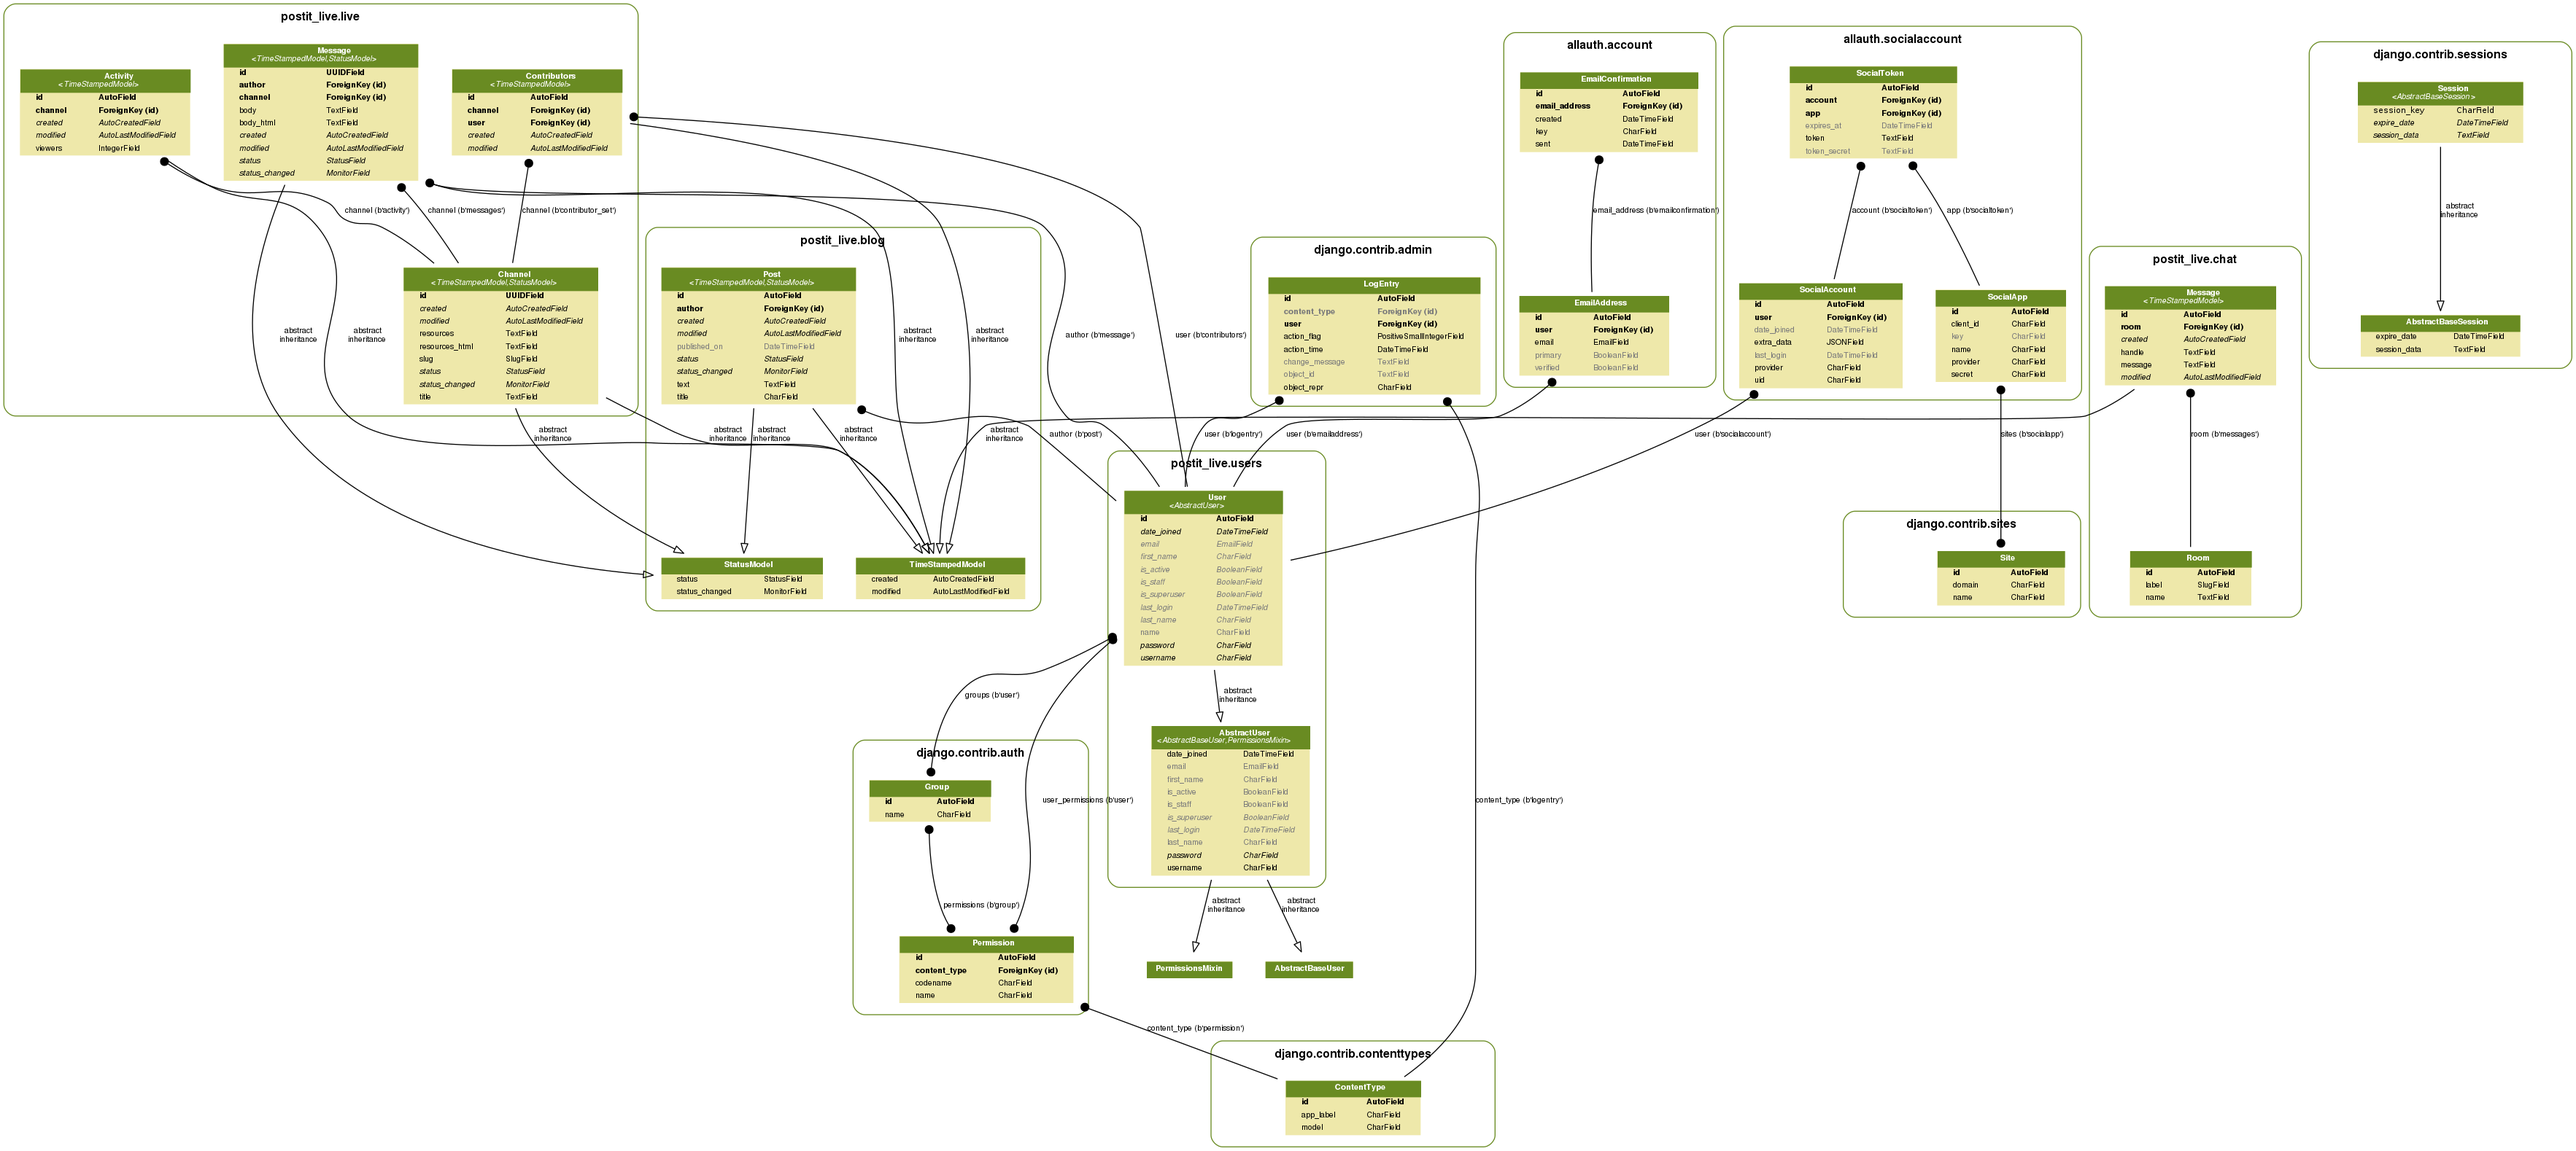
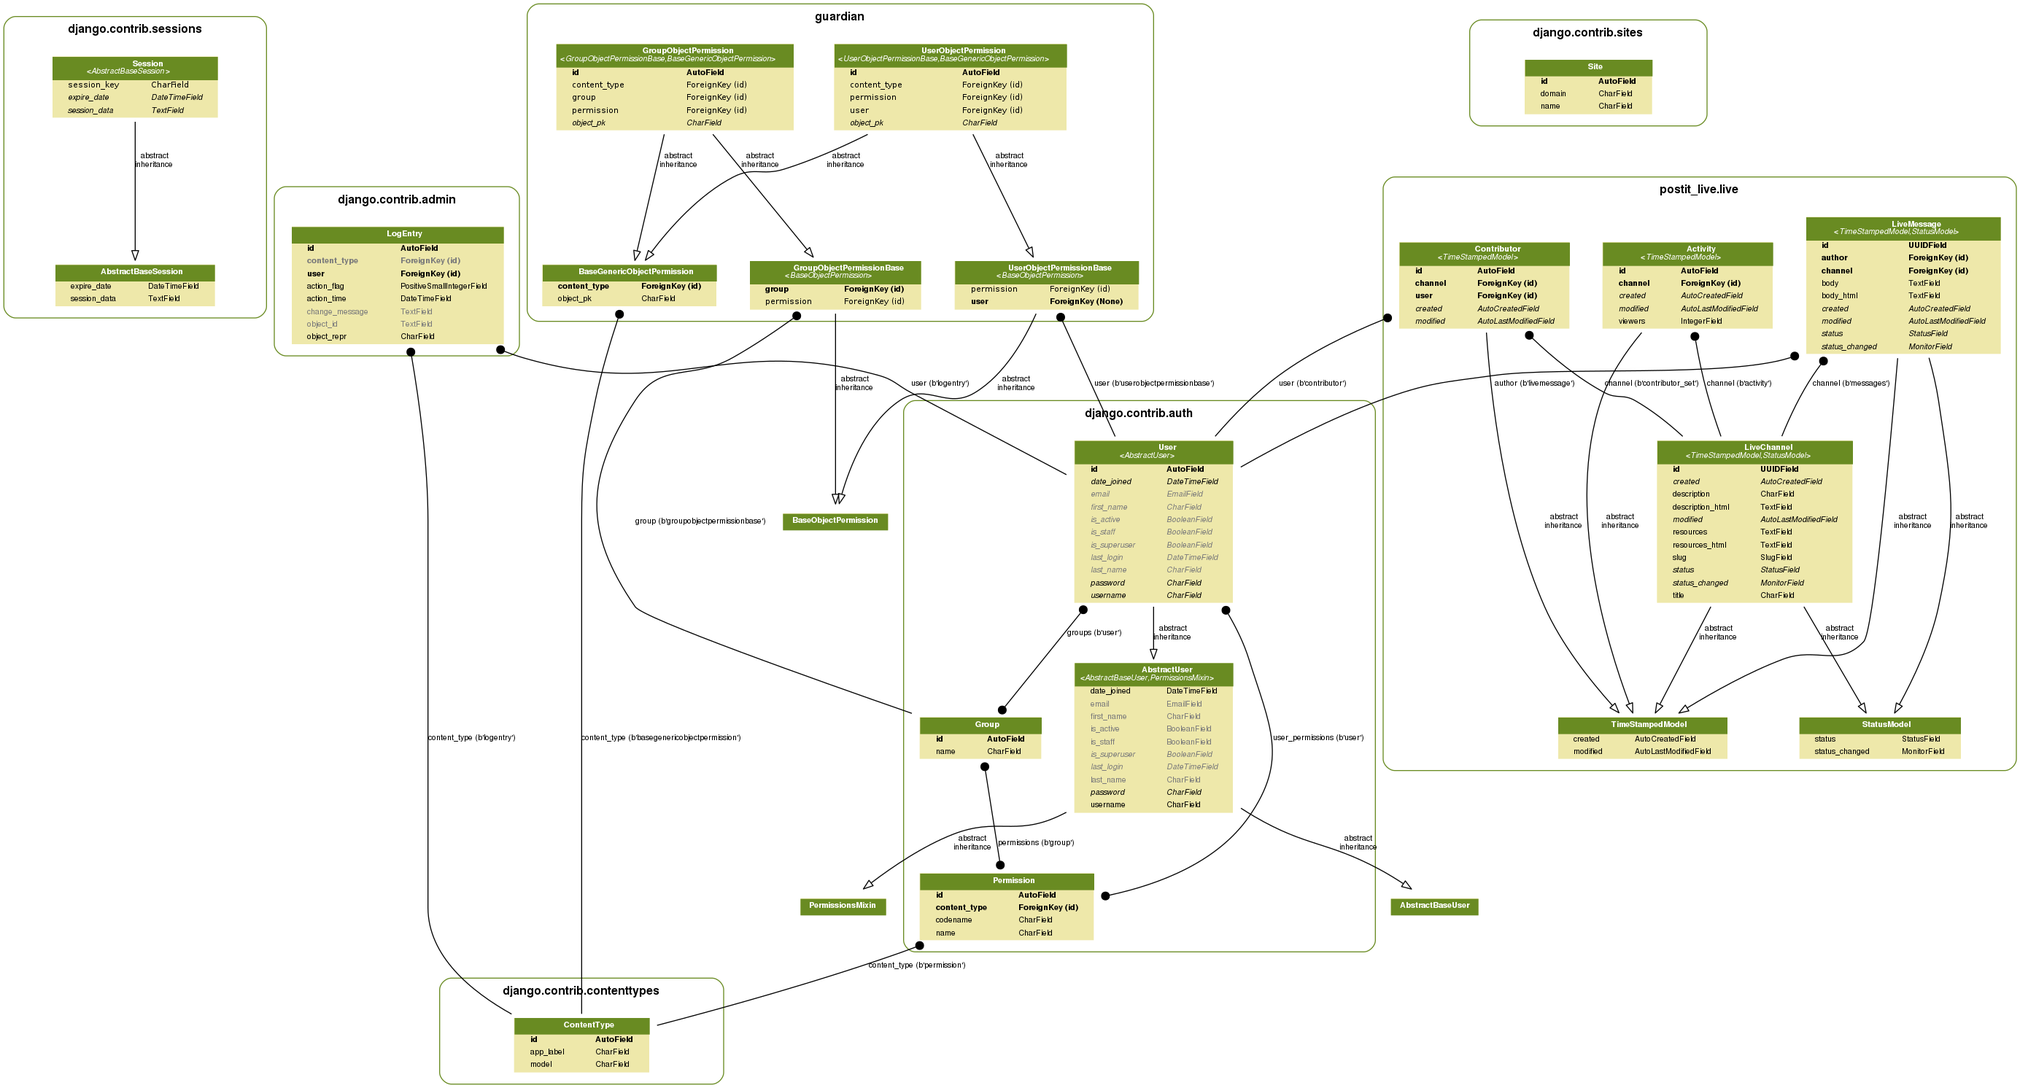
setup permissions on action handlers

diff --git a/postit_live/utils.py b/postit_live/utils.py
@@ -1,8 +1,10 @@
 # coding=utf-8
 import logging
+import pickle
 from io import BytesIO
 
 from channels import Channel
+from channels import Group
 from channels.generic.websockets import JsonWebsocketConsumer, WebsocketConsumer
 from rest_framework.parsers import JSONParser
 from rest_framework.renderers import JSONRenderer
@@ -12,20 +14,6 @@ FROM_JSON = JSONParser()
 logger = logging.getLogger(__name__)
 
 
-class ConsumerMixin(object):
-    consumer = NotImplemented
-
-    def consumer_send(self, content, close=False):
-        message = self.kwargs.copy()
-        if close:
-            message["close"] = True
-
-        message['connection_groups'] = self.connection_groups(**self.kwargs)
-        message['data'] = content
-
-        Channel(self.consumer).send(message)
-
-
 def json_dumps(data):
     return TO_JSON.render(data).decode('utf-8')
 
@@ -33,6 +21,36 @@ def json_dumps(data):
 def json_loads(json):
     stream = BytesIO(json.encode())
     return FROM_JSON.parse(stream)
+
+
+class ConsumerMixin(object):
+    consumer = NotImplemented
+
+    def consumer_send(self, content, close=False):
+        message = self.kwargs.copy()
+
+        if close:
+            message["close"] = True
+
+        message['groups'] = self.connection_groups(**self.kwargs)
+        message['content'] = content
+        message['reply_channel'] = self.message.reply_channel.name
+
+        if self.message.user:
+            message['user'] = pickle.dumps(self.message.user)
+
+        Channel(self.consumer).send(message)
+
+    @staticmethod
+    def wrap_consumer(function):
+        def wrapper(message, **kwargs):
+            message.content['reply_channel'] = Channel(message.content['reply_channel'])
+            message.content['groups'] = [Group(name) for name in message.content['groups']]
+            if message.content.get('user', None):
+                message.content['user'] = pickle.loads(message.content['user'])
+            return function(message.content, **kwargs)
+
+        return wrapper
 
 
 class SerializerWebsocketConsumer(JsonWebsocketConsumer):
@@ -58,31 +76,29 @@ class SerializerWebsocketConsumer(JsonWebsocketConsumer):
     def group_send(cls, name, content, close=False):
         WebsocketConsumer.group_send(name, text=json_dumps(content), close=close)
 
-    @staticmethod
-    def wrap_consumer(function):
-        def wrapper(message, **kwargs):
-            return function(message.content, **kwargs)
-
-        return wrapper
-
 
 class ActionDispatcher(object):
-    def __init__(self):
+    def __init__(self, *, access_denied):
+        self.access_denied = access_denied
         self.registry = {}
 
-    def __call__(self, *, action_type, payload, groups, **kwargs):
-        function = self.registry.get(action_type, None)
+    def __call__(self, *, action_type, payload, user, groups, reply_channel, **kwargs):
+        (function, perm) = self.registry.get(action_type, (None, None))
         if function is None:
             logger.info('no handler for action type=%s', action_type)
             return None
 
-        action_payload = function(payload, **kwargs)
+        if perm and not user.has_perm(perm, kwargs['channel']):
+            logger.warning('access denied action=%s user=%s', action_type, user)
+            return self.dispatch(self.access_denied, groups=[reply_channel])
+
+        action_payload = function(payload, user=user, **kwargs)
         self.dispatch(action_type, action_payload, groups=groups)
         return action_payload
 
-    def action(self, action):
+    def action(self, action, perm=None):
         def outer_wrapper(function):
-            self.registry[action] = function
+            self.registry[action] = (function, perm)
 
             def inner_Wrapper(*args, **kwargs):
                 return function(*args, **kwargs)
@@ -91,7 +107,7 @@ class ActionDispatcher(object):
 
         return outer_wrapper
 
-    def dispatch(self, action_type, payload, *, groups):
+    def dispatch(self, action_type, payload=None, *, groups):
         action = json_dumps({'type': action_type, 'payload': payload})
         [group.send({'text': action}) for group in groups]
 

diff --git a/postit_live/live/consumers.py b/postit_live/live/consumers.py
@@ -1,7 +1,5 @@
 import logging
-import pickle
 
-from channels import Group
 from django.contrib.auth import get_user_model
 
 from postit_live.utils import ConsumerMixin, SerializerWebsocketConsumer, ActionDispatcher
@@ -14,10 +12,14 @@ CREATE_MESSAGE = 'live.CREATE_MESSAGE'
 STRIKE_MESSAGE = 'live.STRIKE_MESSAGE'
 DELETE_MESSAGE = 'live.DELETE_MESSAGE'
 UPDATE_CHANNEL = 'live.UPDATE_CHANNEL'
-AUTH_REQUIRED = 'live.AUTH_REQUIRED'
+CLOSE_CHANNEL = 'live.CLOSE_CHANNEL'
+ADD_CONTRIBUTOR = 'live.ADD_CONTRIBUTOR'
+DELETE_CONTRIBUTOR = 'live.DELETE_CONTRIBUTOR'
+UPDATE_CONTRIBUTOR = 'live.UPDATE_CONTRIBUTOR'
+ACCESS_DENIED = 'live.ACCESS_DENIED'
 
 User = get_user_model()
-handle = ActionDispatcher()
+handle = ActionDispatcher(access_denied=ACCESS_DENIED)
 
 
 class LiveConsumer(ConsumerMixin, SerializerWebsocketConsumer):
@@ -29,19 +31,16 @@ class LiveConsumer(ConsumerMixin, SerializerWebsocketConsumer):
 
     def receive(self, content, slug=None, **kwargs):
         if not self.message.user.is_authenticated():
-            return self.send({'type': AUTH_REQUIRED})
-        content['user'] = pickle.dumps(self.message.user)
+            return self.send({'type': ACCESS_DENIED})
         self.consumer_send(content)
 
 
 @LiveConsumer.wrap_consumer
-def live_messages_consumer(content):
+def live_messages_consumer(message):
     try:
-        slug = content['slug']
-        groups = [Group(name) for name in content['connection_groups']]
-        action = content['data']['type'].replace('socket', 'live', 1)
-        payload = content['data']['payload']
-        user = pickle.loads(content['data']['user'])
+        slug = message['slug']
+        action = message['content']['type'].replace('socket', 'live', 1)
+        payload = message['content']['payload']
 
         channel = LiveChannel.objects.get(slug=slug)
     except KeyError:
@@ -51,10 +50,10 @@ def live_messages_consumer(content):
     except User.DoesNotExist:
         return logger.error('live-messages user does not exist')
 
-    handle(action_type=action, payload=payload, user=user, channel=channel, groups=groups)
+    handle(action_type=action, payload=payload, channel=channel, **message)
 
 
-@handle.action(CREATE_MESSAGE)
+@handle.action(CREATE_MESSAGE, perm='add_channel_messages')
 def create_message(payload, *, user, channel, **_):
     body = payload['body']
     message = channel.messages.create(body=body, author=user)
@@ -63,7 +62,7 @@ def create_message(payload, *, user, channel, **_):
     return {'message': serializer.data}
 
 
-@handle.action(STRIKE_MESSAGE)
+@handle.action(STRIKE_MESSAGE, perm='change_channel_messages')
 def strike_message(payload, *, channel, **_):
     message = channel.messages.get(id=payload['id'])
     message.strike().save()
@@ -71,7 +70,7 @@ def strike_message(payload, *, channel, **_):
     return {'id': message.id}
 
 
-@handle.action(DELETE_MESSAGE)
+@handle.action(DELETE_MESSAGE, perm='change_channel_messages')
 def delete_message(payload, *, channel, **_):
     message = channel.messages.get(id=payload['id'])
     message.delete()
@@ -79,7 +78,7 @@ def delete_message(payload, *, channel, **_):
     return {'id': message.id}
 
 
-@handle.action(UPDATE_CHANNEL)
+@handle.action(UPDATE_CHANNEL, perm='change_channel_settings')
 def update_channel(payload, *, channel, **_):
     channel.title = payload['title']
     channel.description = payload['description']
@@ -87,3 +86,23 @@ def update_channel(payload, *, channel, **_):
     channel.save()
 
     return LiveChannelSocketSerializer(channel).data
+
+
+@handle.action(CLOSE_CHANNEL, perm='change_channel_close')
+def close_chanel(payload, *, channel, **_):
+    pass
+
+
+@handle.action(ADD_CONTRIBUTOR, perm='change_channel_contributors')
+def add_contributor(payload, *, channel, **_):
+    pass
+
+
+@handle.action(DELETE_CONTRIBUTOR, perm='change_channel_contributors')
+def remove_contributor(payload, *, channel, **_):
+    pass
+
+
+@handle.action(UPDATE_CONTRIBUTOR, perm='change_channel_contributors')
+def updaet_contributor(payload, *, channel, **_):
+    pass

diff --git a/postit_live/live/migrations/0001_initial.py b/postit_live/live/migrations/0001_initial.py
@@ -1,5 +1,5 @@
 # -*- coding: utf-8 -*-
-# Generated by Django 1.9.8 on 2016-08-03 23:38
+# Generated by Django 1.9.8 on 2016-08-05 02:40
 from __future__ import unicode_literals
 
 from django.conf import settings
@@ -28,7 +28,8 @@ class Migration(migrations.Migration):
                 ('viewers', models.IntegerField()),
             ],
             options={
-                'abstract': False,
+                'verbose_name': 'activity',
+                'verbose_name_plural': 'activities',
             },
         ),
         migrations.CreateModel(
@@ -47,7 +48,7 @@ class Migration(migrations.Migration):
             fields=[
                 ('created', model_utils.fields.AutoCreatedField(default=django.utils.timezone.now, editable=False, verbose_name='created')),
                 ('modified', model_utils.fields.AutoLastModifiedField(default=django.utils.timezone.now, editable=False, verbose_name='modified')),
-                ('status', model_utils.fields.StatusField(choices=[('opened', 'opened'), ('closed', 'closed')], default='opened', max_length=100, no_check_for_status=True, verbose_name='status')),
+                ('status', model_utils.fields.StatusField(choices=[('OPENED', 'OPENED'), ('CLOSED', 'CLOSED')], default='OPENED', max_length=100, no_check_for_status=True, verbose_name='status')),
                 ('status_changed', model_utils.fields.MonitorField(default=django.utils.timezone.now, monitor='status', verbose_name='status changed')),
                 ('id', models.UUIDField(default=uuid.uuid4, editable=False, primary_key=True, serialize=False)),
                 ('slug', models.SlugField(unique=True)),
@@ -59,7 +60,9 @@ class Migration(migrations.Migration):
                 ('contributors', models.ManyToManyField(through='live.Contributor', to=settings.AUTH_USER_MODEL)),
             ],
             options={
-                'abstract': False,
+                'permissions': (('full_channel', 'Can manage channel'), ('change_channel_close', 'Can permanently close live channel'), ('change_channel_messages', 'Can strike and delete live channel messages'), ('change_channel_contributors', 'Can add, change, delete permissions of other contributors'), ('change_channel_settings', 'Can change title and description of live channel'), ('add_channel_messages', 'Can post channel messages')),
+                'verbose_name': 'channel',
+                'default_permissions': ('add',),
             },
         ),
         migrations.CreateModel(
@@ -76,7 +79,7 @@ class Migration(migrations.Migration):
                 ('channel', models.ForeignKey(on_delete=django.db.models.deletion.CASCADE, related_name='messages', to='live.LiveChannel')),
             ],
             options={
-                'abstract': False,
+                'verbose_name': 'message',
             },
         ),
         migrations.AddField(

diff --git a/postit_live/live/models.py b/postit_live/live/models.py
@@ -1,15 +1,34 @@
+import logging
 import uuid
 
 from django.conf import settings
+from django.contrib.auth.models import Group
 from django.db import models
 from django.db import transaction
+from guardian.shortcuts import assign_perm
 from haikunator import Haikunator
 from markdown import markdown
 from model_utils import Choices
 from model_utils.models import TimeStampedModel, StatusModel
 
+logger = logging.getLogger(__name__)
+
+
+class LiveChannelManager(models.Manager):
+    def create_channel(self, *, user):
+        channel = self.create()
+        group = Group.objects.create(name='full_channel.%s' % channel.slug)
+        perms = ['change_channel_close', 'change_channel_messages', 'change_channel_contributors',
+                 'change_channel_settings', 'add_channel_messages']
+        [assign_perm(perm, group, channel) for perm in perms]
+
+        user.groups.add(group)
+        logger.info('channel created channel=%s user=%s group=%s', channel, user, group)
+        return channel
+
 
 class LiveChannel(TimeStampedModel, StatusModel):
+    objects = LiveChannelManager()
     STATUS = Choices('OPENED', 'CLOSED')
     id = models.UUIDField(primary_key=True, default=uuid.uuid4, editable=False)
     slug = models.SlugField(unique=True)
@@ -49,7 +68,6 @@ class LiveChannel(TimeStampedModel, StatusModel):
 
     class Meta:
         permissions = (
-            ('full_channel', 'Can manage channel'),
             ('change_channel_close', 'Can permanently close live channel'),
             ('change_channel_messages', 'Can strike and delete live channel messages'),
             ('change_channel_contributors', 'Can add, change, delete permissions of other contributors'),

diff --git a/postit_live/live/views.py b/postit_live/live/views.py
@@ -8,9 +8,10 @@ from rest_framework.response import Response
 from .models import LiveChannel, LiveMessage, Activity
 from .serializers import LiveChannelSerializer, LiveMessageSerializer, ActivitySerializer
 
+
 @login_required
 def create_channel(request):
-    channel = LiveChannel.objects.create()
+    channel = LiveChannel.objects.create_channel(user=request.user)
     return redirect('live:channel_detail_settings', slug=channel.slug)
 
 
